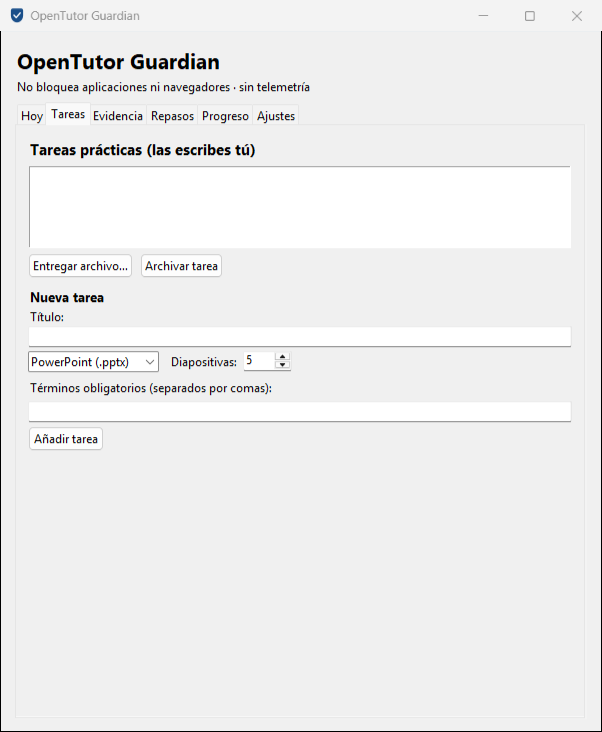
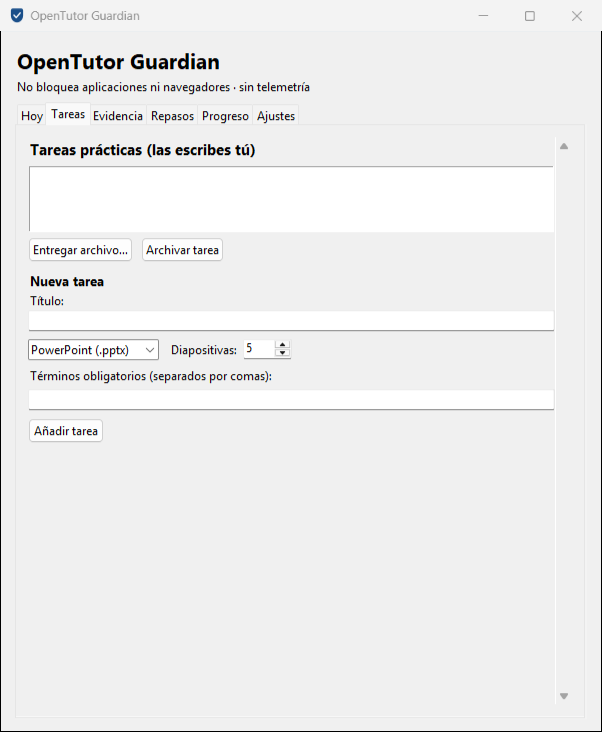
docs: regenerate the gallery for 0.5.0

Changed region(s): [[0.0299, 0.3306, 0.9269, 0.541], [0.0299, 0.571, 0.1794, 0.6311]]

diff --git a/docs/gallery/README.md b/docs/gallery/README.md
@@ -1,6 +1,6 @@
 # Gallery
 
-OpenTutor Guardian 0.4.0 as a user sees it on Windows. Real captures of the program's own
+OpenTutor Guardian 0.5.0 as a user sees it on Windows. Real captures of the program's own
 windows, made by `scripts/gallery.py` with throwaway data and a sample bank made of the 10 backup questions in `src/guardian/questions.py`.
 The bank path in Ajustes is a neutral example, never a folder of the machine that made it.
 The panel text is in Spanish. Regenerate after any interface change, from the repository root:
